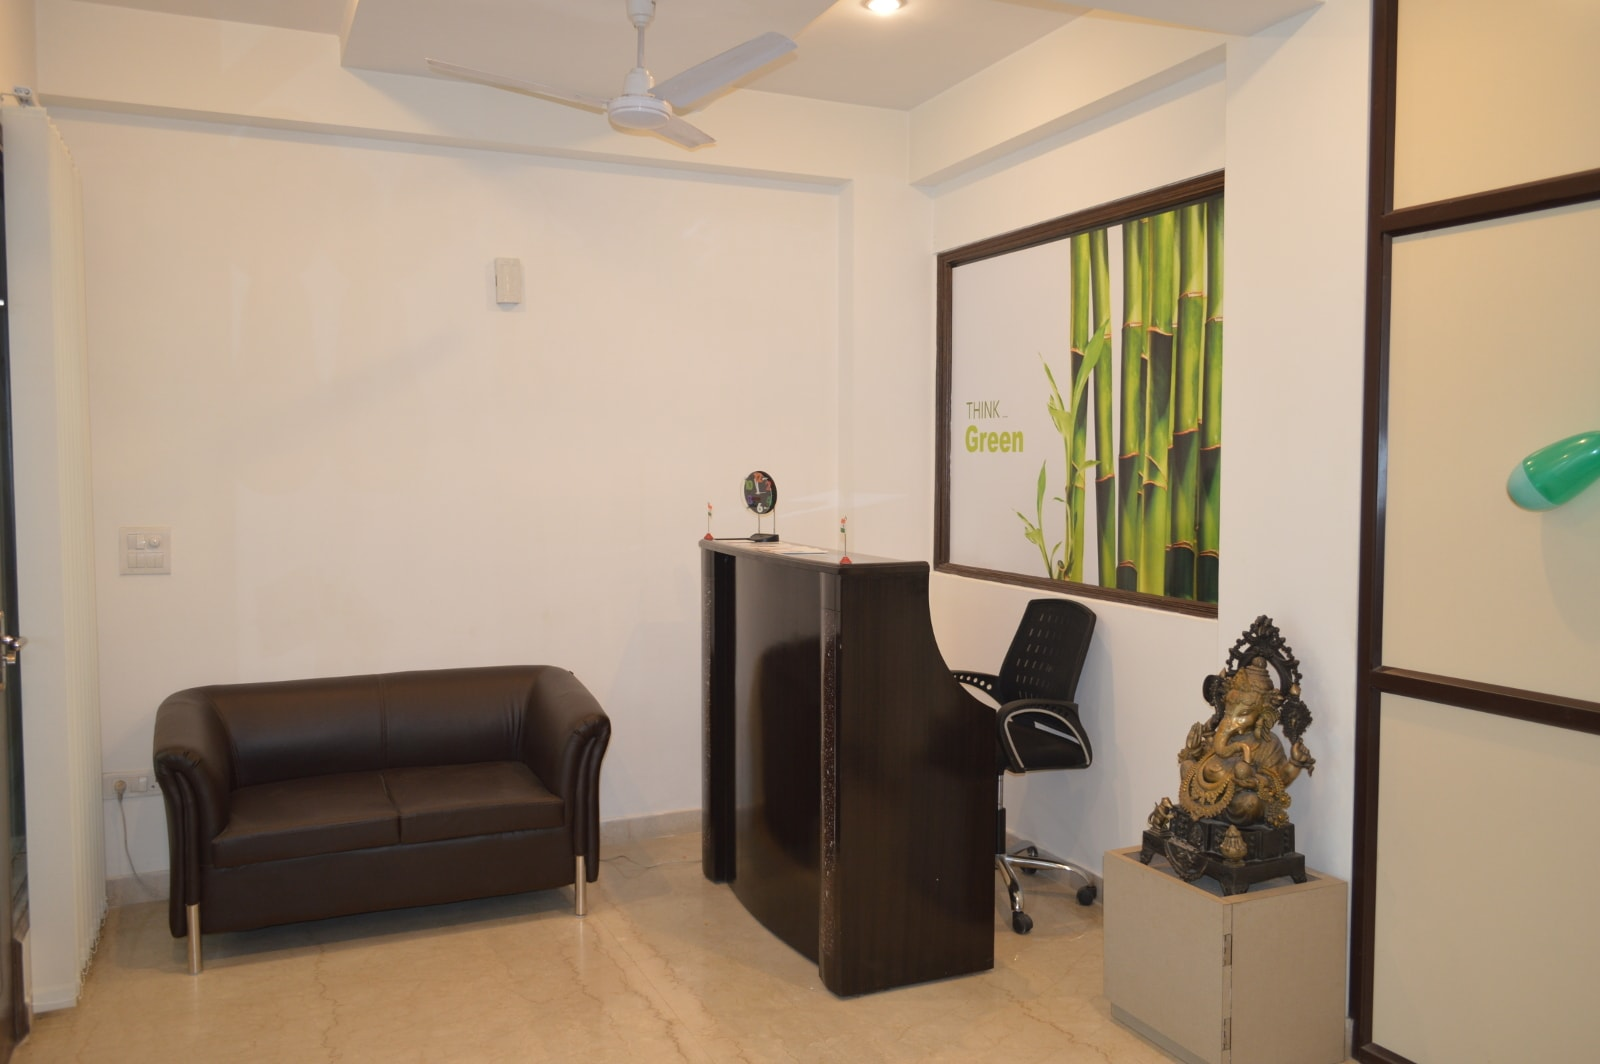
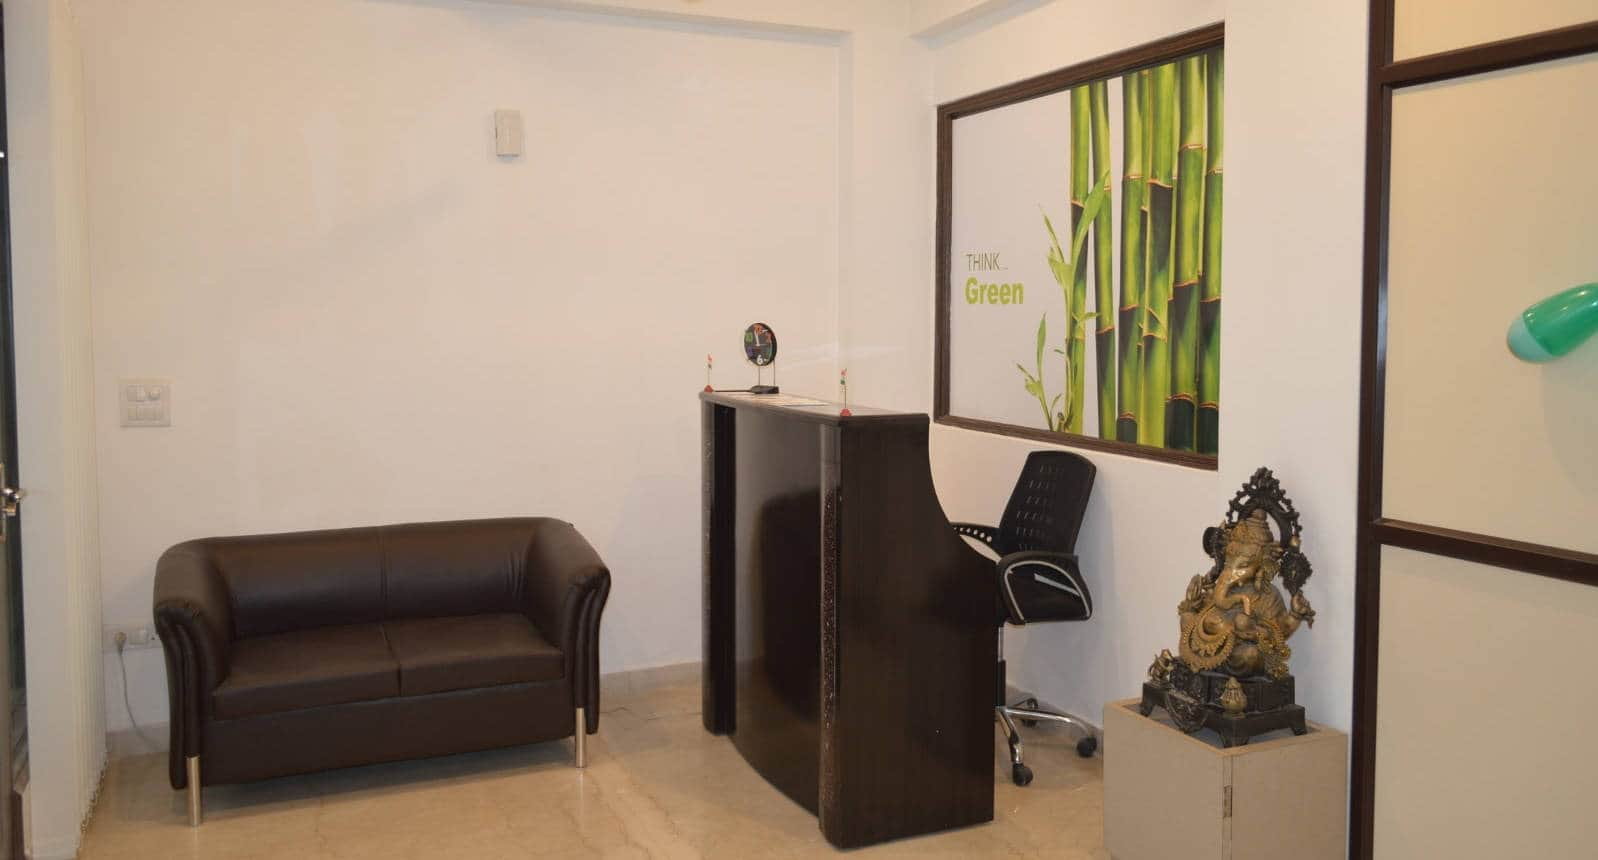
Automated

diff --git a/index.html b/index.html
@@ -18,7 +18,6 @@
         <link rel="shortcut icon" href="img/ico/dfavicon.ico" />
         <!-- ALL STYLESHEETS -->
         <link href="css/all-stylesheet.css" type="text/css" rel="stylesheet" />
-        <link href="css/datepicker.css" rel="stylesheet" type='text/css' />
         <link rel="image_src" href="img/ico/logo.jpg" />
 
         <style>
@@ -43,61 +42,20 @@
       <section id="slider">
          <div class="tp-banner-container">
             <div class="tp-banner" >
-               <ul>
-                  <!-- SLIDE NR. 1-->
-                  <li data-transition="fade" data-slotamount="5" data-masterspeed="700">
-                     <!-- MAIN IMAGE -->
-                     <div style='color:#7cb81a;width:100%;height:50px;text-align:center;padding-top:10px;' class='row'>
+                       <!-- MAIN IMAGE -->
+                     <div style='color:#7cb81a;width:100%;height:10%;text-align:center;padding-top:10px;' class='row'>
                          <div class='col-sm-4'><b>Emergency Services Available 24x7</b></div>
                          <div class='col-sm-4'><b> ISO 9001:2015 Certified Dental Clinic</b></div>
                          <div class='col-sm-4'><b><a href="index.html#contact">Book Appointments</a></b></div>
                      </div>
-                     <img src="img/slider/fullscreen/dental-clinic-reception.jpg"  alt="Dental Arch Reception Area" data-bgfit="cover" data-bgposition="center center" data-bgrepeat="no-repeat">
+                     <img style='width:100%;' src="img/slider/fullscreen/dental-clinic-reception.jpg"  alt="Dental Arch Reception Area" data-bgfit="cover">
                      <!-- LAYER NR. 1 -->
-                     <div class="tp-caption mediumlarge_light_white_center customin customout start"
-                        data-x="center"
-                        data-y="-120"
-                        data-customin="x:0;y:0;z:0;rotationX:90;rotationY:0;rotationZ:0;scaleX:1;scaleY:1;skewX:0;skewY:0;opacity:0;transformPerspective:200;transformOrigin:50% 0%;"
-                        data-customout="x:0;y:0;z:0;rotationX:0;rotationY:0;rotationZ:0;scaleX:0.75;scaleY:0.75;skewX:0;skewY:0;opacity:0;transformPerspective:600;transformOrigin:50% 50%;"
-                        data-speed="1000"
-                        data-start="1000"
-                        data-easing="Back.easeInOut"
-                        data-endspeed="300">
+                     <div style='position:absolute;top:20%;width:100%;text-align:center;z-index:6;' class="tp-caption very_large_text sft customout">
+                         <img src="img/logo/dlogo@2x.png" alt="DentalArch Clinic Logo">
                      </div>
-                     <!-- LAYER NR. 2 -->
-                     <div class="tp-caption very_large_text sft customout"
-                        data-x="center"
-                        data-y="60"
-                        data-customout="x:0;y:0;z:0;rotationX:0;rotationY:0;rotationZ:0;scaleX:0.75;scaleY:0.75;skewX:0;skewY:0;opacity:0;transformPerspective:600;transformOrigin:50% 50%;"
-                        data-speed="800"
-                        data-start="1800"
-                        data-easing="Power4.easeOut"
-                        data-endspeed="300"
-                        data-endeasing="Power1.easeIn"
-                        data-captionhidden="on"
-                        style="z-index: 6"><img src="img/logo/dlogo@2x.png" alt="">
+                     <div style='position:absolute;top:60%;width:100%;text-align:center;z-index:6;'>
+                         <span style='font-size:1.7em;color:#fff;font-weight:bold;'>Welcome to Dental Arch Gurgaon</span>
                      </div>
-                     <!-- LAYER NR. 3 -->
-                     <!-- LAYER NR. 4 -->
-                     <div class="tp-caption large_text sft customout"
-                        data-x="center"
-                        data-y="350"
-                        data-customout="x:0;y:0;z:0;rotationX:0;rotationY:0;rotationZ:0;scaleX:0.75;scaleY:0.75;skewX:0;skewY:0;opacity:0;transformPerspective:600;transformOrigin:50% 50%;"
-                        data-speed="800"
-                        data-start="1800"
-                        data-easing="Power4.easeOut"
-                        data-endspeed="300"
-                        data-endeasing="Power1.easeIn"
-                        data-captionhidden="on"
-                        style="z-index: 6"><span style='font-size:45px;'>Welcome to Dental Arch Gurgaon</span>
-                     </div>
-                     <!-- LAYER NR. 5 -->
-
-                  </li>
-                  <!-- SLIDE NR. 2-->
-
-               </ul>
-               <div class="tp-bannertimer"></div>
             </div>
          </div>
       </section>
@@ -319,6 +277,8 @@
       </section>
       <!-- /.SOCIAL MEDIA -->
 
+
+      <link href="css/datepicker.css" rel="stylesheet" type='text/css' />
       <!-- Bootstrap -->
       <script src="js/jquery-1.11.0.min.js"></script>
       <script src="js/bootstrap.min.js"></script>
@@ -332,26 +292,7 @@
       <!-- Slider Revolution 4.x Scripts -->
       <script type="text/javascript" src="rs-plugin/js/jquery.themepunch.plugins.min.js"></script>
       <script type="text/javascript" src="rs-plugin/js/jquery.themepunch.revolution.js"></script>
-      <script>
-            var revapi;
 
-     		jQuery(document).ready(function() {
-
-     			   revapi = jQuery('.tp-banner').revolution(
-     				{
-     					delay:15000,
-     					startwidth:1170,
-     					startheight:500,
-     					hideThumbs:10,
-     					fullWidth:"off",
-     					fullScreen:"on",
-     					fullScreenOffsetContainer: "",
-     					hideCaptionAtLimit:400
-     					//hideAllCaptionAtLimit:400
-     				});
-
-     		});	//ready
-        </script>
         <script src="owl-carousel/owl-carousel/owl.carousel.js"></script>
         <script src="js/custom.js"></script>
         <script src="js/nav/jquery.scrollTo.js"></script>
